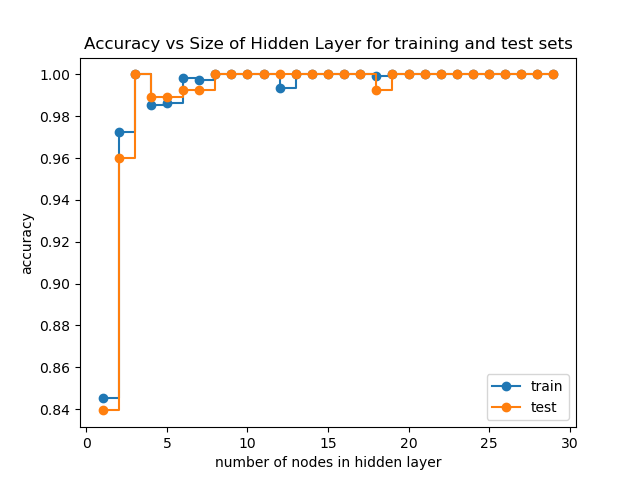
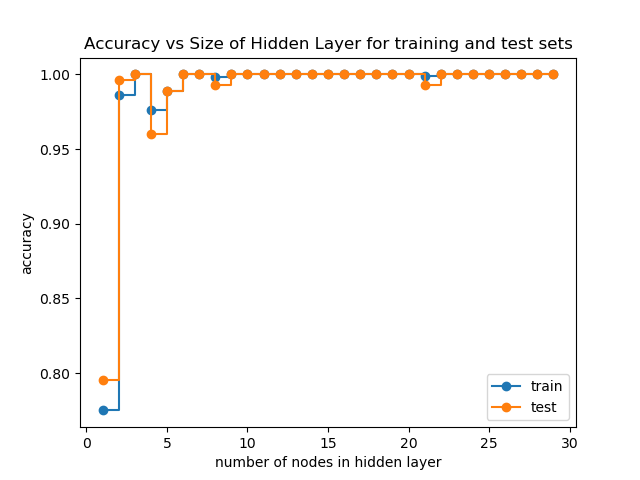
updated report

diff --git a/assignment_1/neural_network/main.py b/assignment_1/neural_network/main.py
@@ -15,8 +15,9 @@ def generate_networks(data, solver, name):
     clf = MLPClassifier(
       solver=solver, 
       hidden_layer_sizes=size, 
-      alpha=0.00001,
-      learning_rate='adaptive'
+      alpha=0.001,
+      learning_rate='adaptive',
+      random_state=0
     )
     clf.fit(x_train, y_train)
     clfs.append(clf)
